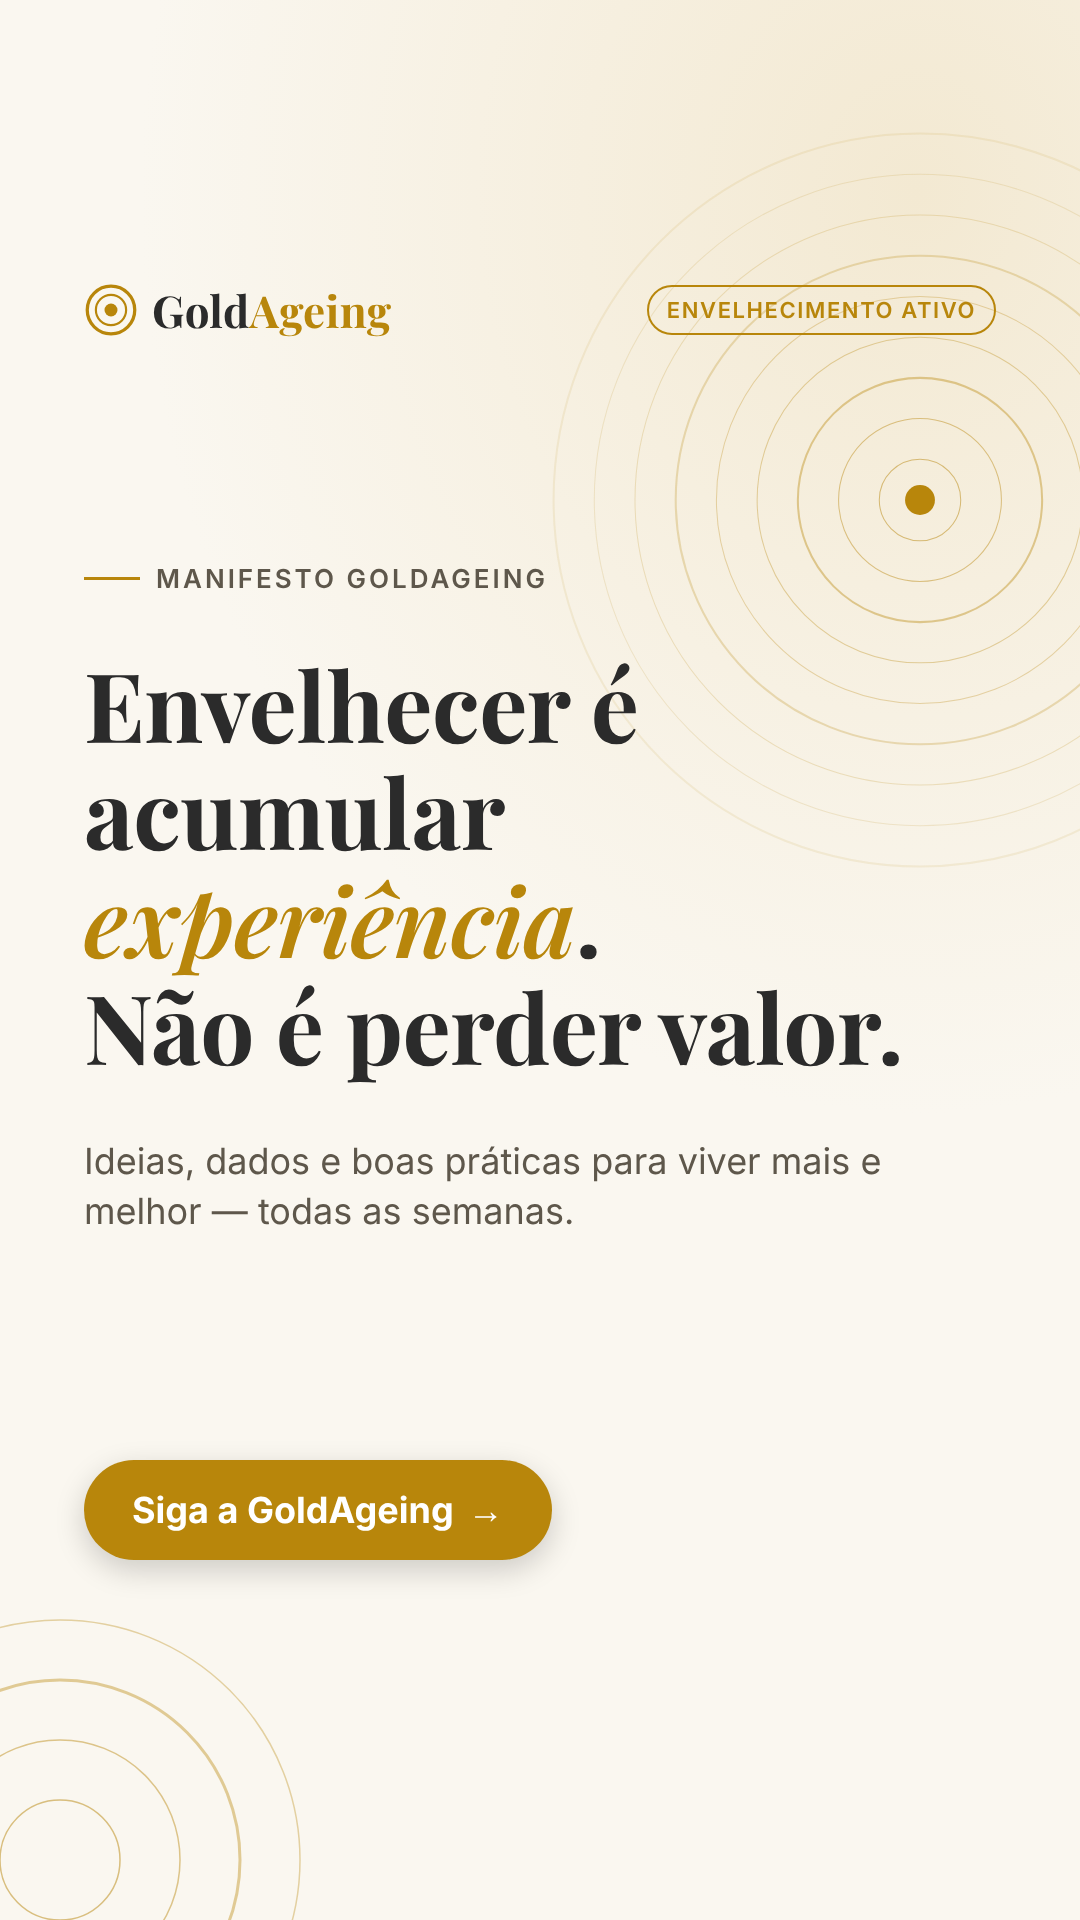
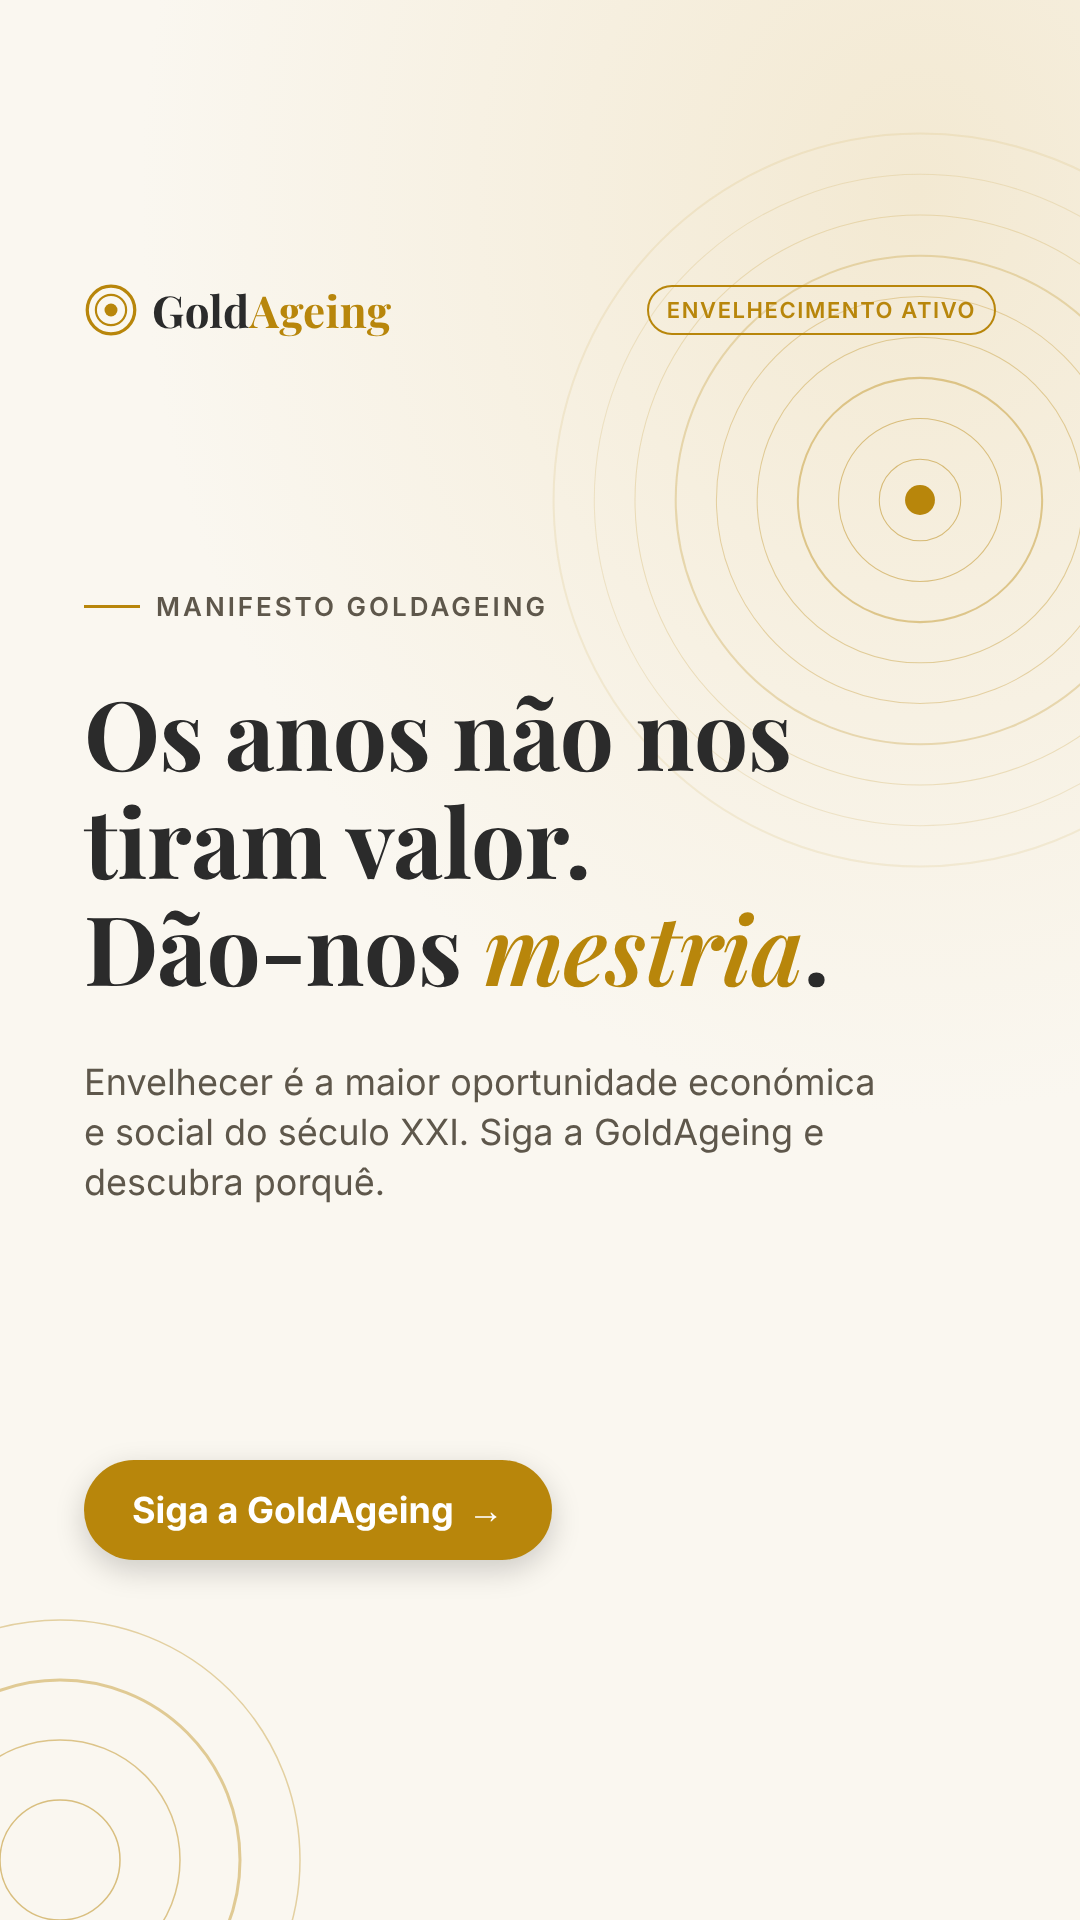
Rewrite campaign copy with stronger, higher-impact headlines
Claude-Session: https://claude.ai/code/session_01GDTKjzSFVCRQCFbKiRy7ix

Changed region(s): [[0.0611, 0.2812, 0.825, 0.6562]]

diff --git a/goldageing/campanha-meta/html/render.js b/goldageing/campanha-meta/html/render.js
@@ -9,25 +9,25 @@ const themes = {
 
 const creatives = [
   { id:'A1-clientes-empresas', theme:'dark', tag:'Certificação Senior-Friendly', eyebrow:'Silver Economy',
-    head:'O cliente <em>50+</em> já é o seu maior mercado.<br>A sua empresa está preparada?',
+    head:'O cliente <em>50+</em> não é um nicho.<br>É o seu maior mercado.',
     stat:'5,7 biliões €', cap:'valor estimado da Silver Economy na UE em 2025', src:'Fonte: Comissão Europeia (2018)',
-    cta:'Peça o seu diagnóstico' },
+    cta:'Peça o diagnóstico' },
   { id:'A2-clientes-municipios', theme:'dark', tag:'Para municípios', eyebrow:'Território & Envelhecimento',
-    head:'Territórios <em>amigos das pessoas 50+</em> atraem pessoas, emprego e investimento.',
+    head:'Quem não prepara o território para <em>envelhecer</em>, perde-o.',
     stat:'182', cap:'pessoas com 65+ anos por cada 100 jovens em Portugal', src:'Fonte: INE, Censos 2021',
-    cta:'Agende uma reunião' },
+    cta:'Prepare o seu município' },
   { id:'B1-seguidores-manifesto', theme:'cream', tag:'Envelhecimento Ativo', eyebrow:'Manifesto GoldAgeing',
-    head:'Envelhecer é acumular <em>experiência</em>.<br>Não é perder valor.',
-    sub:'Ideias, dados e boas práticas para viver mais e melhor — todas as semanas.',
+    head:'Os anos não nos tiram valor.<br>Dão-nos <em>mestria</em>.',
+    sub:'Envelhecer é a maior oportunidade económica e social do século XXI. Siga a GoldAgeing e descubra porquê.',
     cta:'Siga a GoldAgeing' },
-  { id:'B2-seguidores-dado', theme:'cream', tag:'Longevidade', eyebrow:'Sabia que quase…',
+  { id:'B2-seguidores-dado', theme:'cream', tag:'Longevidade', eyebrow:'O país mudou',
     stat:'1 em cada 4', cap:'portugueses tem 65 ou mais anos (23,4%).', src:'Fonte: INE, Censos 2021',
-    head:'Está na hora de mudar a forma como falamos de <em>envelhecimento</em>.',
-    cta:'Junte-se à conversa' },
+    head:'Portugal envelhece. Vamos tratá-lo como <em>oportunidade</em>.',
+    cta:'Siga e partilhe' },
   { id:'C1-agetech', theme:'dark', grid:true, tag:'AgeTech', eyebrow:'Tecnologia com propósito',
-    head:'A tecnologia ao serviço de quem tem mais <em>experiência</em>.',
-    sub:'Teleassistência, saúde digital e casas inteligentes: ajudamos a escolher, financiar e implementar soluções AgeTech.',
-    cta:'Descubra como' },
+    head:'Tecnologia que devolve <em>autonomia</em>.',
+    sub:'Teleassistência, saúde digital e casas inteligentes para viver com independência e segurança. Escolhemos, financiamos e implementamos consigo.',
+    cta:'Descubra a AgeTech' },
 ];
 
 function rings(t, n=9) {

diff --git a/goldageing/campanha-meta/html/B2-seguidores-dado_1x1.html b/goldageing/campanha-meta/html/B2-seguidores-dado_1x1.html
@@ -32,11 +32,11 @@ h1 em{font-style:italic;color:#b8860b;font-weight:600}
     <div class="tag">Longevidade</div>
   </div>
   <div class="main">
-    <div class="eyebrow">Sabia que quase…</div>
-    <div class="stat"><div class="num">1 em cada 4</div><div class="cap">portugueses tem 65 ou mais anos (23,4%).</div></div><h1>Está na hora de mudar a forma como falamos de <em>envelhecimento</em>.</h1>
+    <div class="eyebrow">O país mudou</div>
+    <div class="stat"><div class="num">1 em cada 4</div><div class="cap">portugueses tem 65 ou mais anos (23,4%).</div></div><h1>Portugal envelhece. Vamos tratá-lo como <em>oportunidade</em>.</h1>
   </div>
   <div class="bottom">
-    <div class="btn">Junte-se à conversa <span>→</span></div>
+    <div class="btn">Siga e partilhe <span>→</span></div>
     <div class="src">Fonte: INE, Censos 2021</div>
   </div>
 </div></body></html>

diff --git a/goldageing/campanha-meta/html/B2-seguidores-dado_9x16.html b/goldageing/campanha-meta/html/B2-seguidores-dado_9x16.html
@@ -32,11 +32,11 @@ h1 em{font-style:italic;color:#b8860b;font-weight:600}
     <div class="tag">Longevidade</div>
   </div>
   <div class="main">
-    <div class="eyebrow">Sabia que quase…</div>
-    <div class="stat"><div class="num">1 em cada 4</div><div class="cap">portugueses tem 65 ou mais anos (23,4%).</div></div><h1>Está na hora de mudar a forma como falamos de <em>envelhecimento</em>.</h1>
+    <div class="eyebrow">O país mudou</div>
+    <div class="stat"><div class="num">1 em cada 4</div><div class="cap">portugueses tem 65 ou mais anos (23,4%).</div></div><h1>Portugal envelhece. Vamos tratá-lo como <em>oportunidade</em>.</h1>
   </div>
   <div class="bottom">
-    <div class="btn">Junte-se à conversa <span>→</span></div>
+    <div class="btn">Siga e partilhe <span>→</span></div>
     <div class="src">Fonte: INE, Censos 2021</div>
   </div>
 </div></body></html>

diff --git a/goldageing/campanha-meta/html/A1-clientes-empresas_1x1.html b/goldageing/campanha-meta/html/A1-clientes-empresas_1x1.html
@@ -33,10 +33,10 @@ h1 em{font-style:italic;color:#d4a62a;font-weight:600}
   </div>
   <div class="main">
     <div class="eyebrow">Silver Economy</div>
-    <h1>O cliente <em>50+</em> já é o seu maior mercado.<br>A sua empresa está preparada?</h1><div class="stat"><div class="num">5,7 biliões €</div><div class="cap">valor estimado da Silver Economy na UE em 2025</div></div>
+    <h1>O cliente <em>50+</em> não é um nicho.<br>É o seu maior mercado.</h1><div class="stat"><div class="num">5,7 biliões €</div><div class="cap">valor estimado da Silver Economy na UE em 2025</div></div>
   </div>
   <div class="bottom">
-    <div class="btn">Peça o seu diagnóstico <span>→</span></div>
+    <div class="btn">Peça o diagnóstico <span>→</span></div>
     <div class="src">Fonte: Comissão Europeia (2018)</div>
   </div>
 </div></body></html>

diff --git a/goldageing/campanha-meta/html/A1-clientes-empresas_9x16.html b/goldageing/campanha-meta/html/A1-clientes-empresas_9x16.html
@@ -33,10 +33,10 @@ h1 em{font-style:italic;color:#d4a62a;font-weight:600}
   </div>
   <div class="main">
     <div class="eyebrow">Silver Economy</div>
-    <h1>O cliente <em>50+</em> já é o seu maior mercado.<br>A sua empresa está preparada?</h1><div class="stat"><div class="num">5,7 biliões €</div><div class="cap">valor estimado da Silver Economy na UE em 2025</div></div>
+    <h1>O cliente <em>50+</em> não é um nicho.<br>É o seu maior mercado.</h1><div class="stat"><div class="num">5,7 biliões €</div><div class="cap">valor estimado da Silver Economy na UE em 2025</div></div>
   </div>
   <div class="bottom">
-    <div class="btn">Peça o seu diagnóstico <span>→</span></div>
+    <div class="btn">Peça o diagnóstico <span>→</span></div>
     <div class="src">Fonte: Comissão Europeia (2018)</div>
   </div>
 </div></body></html>

diff --git a/goldageing/campanha-meta/html/A2-clientes-municipios_1x1.html b/goldageing/campanha-meta/html/A2-clientes-municipios_1x1.html
@@ -33,10 +33,10 @@ h1 em{font-style:italic;color:#d4a62a;font-weight:600}
   </div>
   <div class="main">
     <div class="eyebrow">Território & Envelhecimento</div>
-    <h1>Territórios <em>amigos das pessoas 50+</em> atraem pessoas, emprego e investimento.</h1><div class="stat"><div class="num">182</div><div class="cap">pessoas com 65+ anos por cada 100 jovens em Portugal</div></div>
+    <h1>Quem não prepara o território para <em>envelhecer</em>, perde-o.</h1><div class="stat"><div class="num">182</div><div class="cap">pessoas com 65+ anos por cada 100 jovens em Portugal</div></div>
   </div>
   <div class="bottom">
-    <div class="btn">Agende uma reunião <span>→</span></div>
+    <div class="btn">Prepare o seu município <span>→</span></div>
     <div class="src">Fonte: INE, Censos 2021</div>
   </div>
 </div></body></html>

diff --git a/goldageing/campanha-meta/html/A2-clientes-municipios_9x16.html b/goldageing/campanha-meta/html/A2-clientes-municipios_9x16.html
@@ -33,10 +33,10 @@ h1 em{font-style:italic;color:#d4a62a;font-weight:600}
   </div>
   <div class="main">
     <div class="eyebrow">Território & Envelhecimento</div>
-    <h1>Territórios <em>amigos das pessoas 50+</em> atraem pessoas, emprego e investimento.</h1><div class="stat"><div class="num">182</div><div class="cap">pessoas com 65+ anos por cada 100 jovens em Portugal</div></div>
+    <h1>Quem não prepara o território para <em>envelhecer</em>, perde-o.</h1><div class="stat"><div class="num">182</div><div class="cap">pessoas com 65+ anos por cada 100 jovens em Portugal</div></div>
   </div>
   <div class="bottom">
-    <div class="btn">Agende uma reunião <span>→</span></div>
+    <div class="btn">Prepare o seu município <span>→</span></div>
     <div class="src">Fonte: INE, Censos 2021</div>
   </div>
 </div></body></html>

diff --git a/goldageing/campanha-meta/html/C1-agetech_1x1.html b/goldageing/campanha-meta/html/C1-agetech_1x1.html
@@ -33,10 +33,10 @@ h1 em{font-style:italic;color:#d4a62a;font-weight:600}
   </div>
   <div class="main">
     <div class="eyebrow">Tecnologia com propósito</div>
-    <h1>A tecnologia ao serviço de quem tem mais <em>experiência</em>.</h1><p class="sub">Teleassistência, saúde digital e casas inteligentes: ajudamos a escolher, financiar e implementar soluções AgeTech.</p>
+    <h1>Tecnologia que devolve <em>autonomia</em>.</h1><p class="sub">Teleassistência, saúde digital e casas inteligentes para viver com independência e segurança. Escolhemos, financiamos e implementamos consigo.</p>
   </div>
   <div class="bottom">
-    <div class="btn">Descubra como <span>→</span></div>
+    <div class="btn">Descubra a AgeTech <span>→</span></div>
     
   </div>
 </div></body></html>

diff --git a/goldageing/campanha-meta/html/C1-agetech_9x16.html b/goldageing/campanha-meta/html/C1-agetech_9x16.html
@@ -33,10 +33,10 @@ h1 em{font-style:italic;color:#d4a62a;font-weight:600}
   </div>
   <div class="main">
     <div class="eyebrow">Tecnologia com propósito</div>
-    <h1>A tecnologia ao serviço de quem tem mais <em>experiência</em>.</h1><p class="sub">Teleassistência, saúde digital e casas inteligentes: ajudamos a escolher, financiar e implementar soluções AgeTech.</p>
+    <h1>Tecnologia que devolve <em>autonomia</em>.</h1><p class="sub">Teleassistência, saúde digital e casas inteligentes para viver com independência e segurança. Escolhemos, financiamos e implementamos consigo.</p>
   </div>
   <div class="bottom">
-    <div class="btn">Descubra como <span>→</span></div>
+    <div class="btn">Descubra a AgeTech <span>→</span></div>
     
   </div>
 </div></body></html>

diff --git a/goldageing/campanha-meta/html/B1-seguidores-manifesto_1x1.html b/goldageing/campanha-meta/html/B1-seguidores-manifesto_1x1.html
@@ -33,7 +33,7 @@ h1 em{font-style:italic;color:#b8860b;font-weight:600}
   </div>
   <div class="main">
     <div class="eyebrow">Manifesto GoldAgeing</div>
-    <h1>Envelhecer é acumular <em>experiência</em>.<br>Não é perder valor.</h1><p class="sub">Ideias, dados e boas práticas para viver mais e melhor — todas as semanas.</p>
+    <h1>Os anos não nos tiram valor.<br>Dão-nos <em>mestria</em>.</h1><p class="sub">Envelhecer é a maior oportunidade económica e social do século XXI. Siga a GoldAgeing e descubra porquê.</p>
   </div>
   <div class="bottom">
     <div class="btn">Siga a GoldAgeing <span>→</span></div>

diff --git a/goldageing/campanha-meta/html/B1-seguidores-manifesto_9x16.html b/goldageing/campanha-meta/html/B1-seguidores-manifesto_9x16.html
@@ -33,7 +33,7 @@ h1 em{font-style:italic;color:#b8860b;font-weight:600}
   </div>
   <div class="main">
     <div class="eyebrow">Manifesto GoldAgeing</div>
-    <h1>Envelhecer é acumular <em>experiência</em>.<br>Não é perder valor.</h1><p class="sub">Ideias, dados e boas práticas para viver mais e melhor — todas as semanas.</p>
+    <h1>Os anos não nos tiram valor.<br>Dão-nos <em>mestria</em>.</h1><p class="sub">Envelhecer é a maior oportunidade económica e social do século XXI. Siga a GoldAgeing e descubra porquê.</p>
   </div>
   <div class="bottom">
     <div class="btn">Siga a GoldAgeing <span>→</span></div>

diff --git a/goldageing/campanha-meta/README.md b/goldageing/campanha-meta/README.md
@@ -7,8 +7,8 @@ Para editar: alterar `html/render.js` e correr `node html/render.js <pasta>` (re
 
 | Criativo | Público | Texto principal (primary text) | Título | Botão |
 |---|---|---|---|---|
-| A1 Empresas | Decisores de retalho, turismo, saúde e serviços (PT, 30–65, interesses: gestão, hotelaria, retalho) | A geração 50+ tem o maior poder de compra da Europa — e espera ser bem servida. A GoldAgeing ajuda a sua empresa a adaptar serviços, equipas e espaços, com Certificação Senior-Friendly. Peça um diagnóstico. | O seu negócio está preparado para o cliente 50+? | Pedir orçamento / Saiba mais |
-| A2 Municípios | Autarcas, técnicos municipais, IPSS (PT; interesses: administração pública, desenvolvimento local) | Portugal tem 182 pessoas com 65+ anos por cada 100 jovens (INE, Censos 2021). Os territórios que se adaptam ganham população, emprego e investimento. Diagnóstico, plano de ação e acesso a fundos europeus — numa só equipa. | Torne o seu município Senior-Friendly | Agendar / Contactar-nos |
+| A1 Empresas | Decisores de retalho, turismo, saúde e serviços (PT, 30–65, interesses: gestão, hotelaria, retalho) | A geração 50+ tem o maior poder de compra da Europa — e espera ser bem servida. A GoldAgeing ajuda a sua empresa a adaptar serviços, equipas e espaços, com Certificação Senior-Friendly. Peça um diagnóstico. | O cliente 50+ não é um nicho. É o seu maior mercado. | Pedir orçamento / Saiba mais |
+| A2 Municípios | Autarcas, técnicos municipais, IPSS (PT; interesses: administração pública, desenvolvimento local) | Portugal tem 182 pessoas com 65+ anos por cada 100 jovens (INE, Censos 2021). Os territórios que se adaptam ganham população, emprego e investimento. Diagnóstico, plano de ação e acesso a fundos europeus — numa só equipa. | Quem não prepara o território para envelhecer, perde-o. | Agendar / Contactar-nos |
 
 **Formulário (3 campos):** nome, email/telefone, entidade (empresa ou município) + 1 pergunta: "Qual o principal desafio?".
 **KPIs:** CPL < 15–25 € (B2B PT, referência a validar no 1.º teste); taxa de qualificação ≥ 30%; reuniões marcadas/semana.
@@ -17,8 +17,8 @@ Para editar: alterar `html/render.js` e correr `node html/render.js <pasta>` (re
 
 | Criativo | Público | Texto principal | Botão |
 |---|---|---|---|
-| B1 Manifesto | Pessoas 50+ e familiares cuidadores (PT, 45–75; interesses: saúde, bem-estar, viagens, voluntariado) | Envelhecer é acumular experiência. Siga a GoldAgeing e receba, todas as semanas, ideias e boas práticas para viver mais e melhor. #EnvelhecimentoAtivo #50mais | Gosto da página / Seguir |
-| B2 Dado | Idem + profissionais do setor social e saúde | Quase 1 em cada 4 portugueses tem 65 ou mais anos (INE, Censos 2021). Está na hora de falar de envelhecimento como oportunidade. Junte-se à conversa. #SilverEconomy #Longevidade | Seguir / Saiba mais |
+| B1 Manifesto | Pessoas 50+ e familiares cuidadores (PT, 45–75; interesses: saúde, bem-estar, viagens, voluntariado) | Os anos não nos tiram valor. Dão-nos mestria. Siga a GoldAgeing e receba, todas as semanas, ideias e boas práticas para viver mais e melhor. #EnvelhecimentoAtivo #50mais | Gosto da página / Seguir |
+| B2 Dado | Idem + profissionais do setor social e saúde | Quase 1 em cada 4 portugueses tem 65 ou mais anos (INE, Censos 2021). Portugal envelhece. Vamos tratá-lo como oportunidade. Siga e partilhe. #SilverEconomy #Longevidade | Seguir / Saiba mais |
 
 **KPIs:** custo por seguidor < 0,30–0,60 €; taxa de interação ≥ 3%; partilhas e guardados.
 
@@ -27,3 +27,6 @@ Para editar: alterar `html/render.js` e correr `node html/render.js <pasta>` (re
 - Retargeting: quem interagiu com a Campanha B → Campanha A (municípios/empresas) ou conteúdos de formação.
 - Substituir o logótipo provisório (wordmark em texto) pelo oficial e, se possível, testar uma variante com fotografia real de pessoas 50+ ativas.
 - Anúncios de temas sociais/políticos não se aplicam; categoria especial não necessária.
+
+## Campanha C — AgeTech (C1)
+Título: "Tecnologia que devolve autonomia." Texto: teleassistência, saúde digital e casas inteligentes para viver com independência e segurança; escolhemos, financiamos e implementamos consigo. Botão: "Descubra a AgeTech". Público: IPSS, municípios, cuidadores e famílias; objetivo Leads ou Tráfego.
